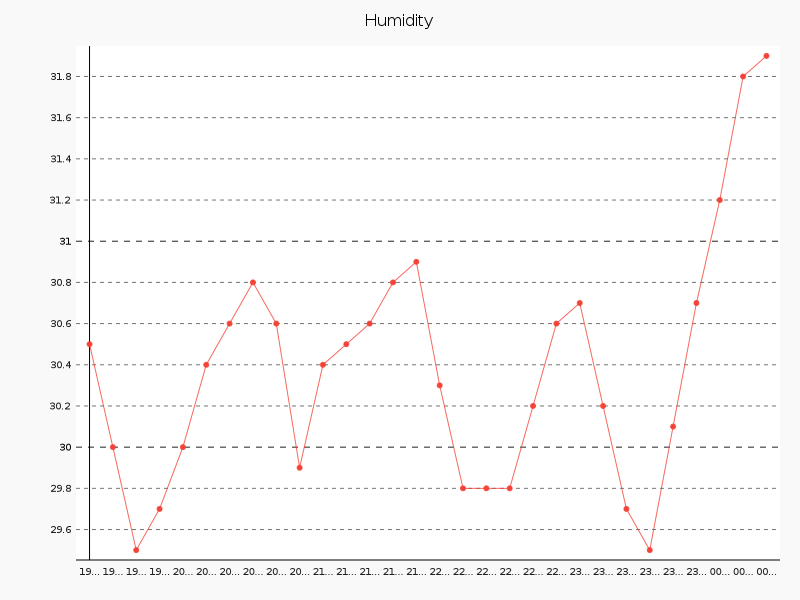
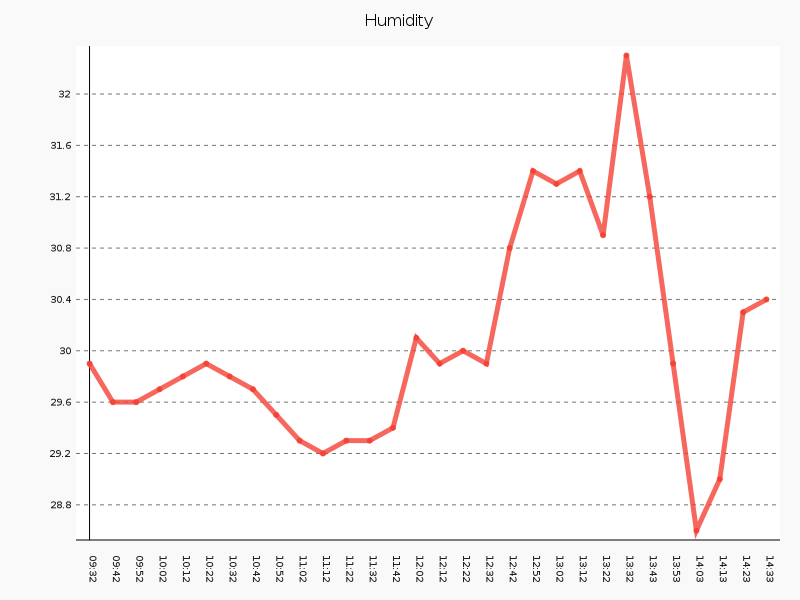
bugfix

diff --git a/Graph.py b/Graph.py
@@ -26,8 +26,8 @@ def get_data(field_num, field_name, results):
 def get_pic(title, labels, data, pic_name):
         line_chart = pygal.Line(
             x_label_rotation=90, 
-            interpolate='lagrange',
-            stroke_style={'width': 5, 'linecap': 'round', 'linejoin': 'round'}
+            #interpolate='lagrange',
+            stroke_style={'width': 5} #, 'linecap': 'round', 'linejoin': 'round'}
             )
         line_chart.title = title
         line_chart.x_labels = labels
@@ -57,6 +57,7 @@ def get_humid(usr_id, values_num = 30):
 
 
 def get_temp_hum(usr_id):
+    values_num = 60
     labels, t_vals = get_data(1, 'field1', values_num)
     labels, h_vals = get_data(3, 'field3', values_num)
     pic_name = "t+h_%s.png" % usr_id
@@ -65,13 +66,13 @@ def get_temp_hum(usr_id):
     chart = pygal.Line(
         title='Temerature & Humidity',
         x_label_rotation=90, 
-        interpolate='lagrange',
-        stroke_style={'width': 5, 'linecap': 'round', 'linejoin': 'round'}
+        #interpolate='lagrange',
+        stroke_style={'width': 5}
         )
     chart.x_labels = labels
     chart.add('T', t_vals)
     chart.add('H', h_vals, secondary=True)
-    line_chart.render_to_png(full_name)
+    chart.render_to_png(full_name)
     return full_name
 
 
